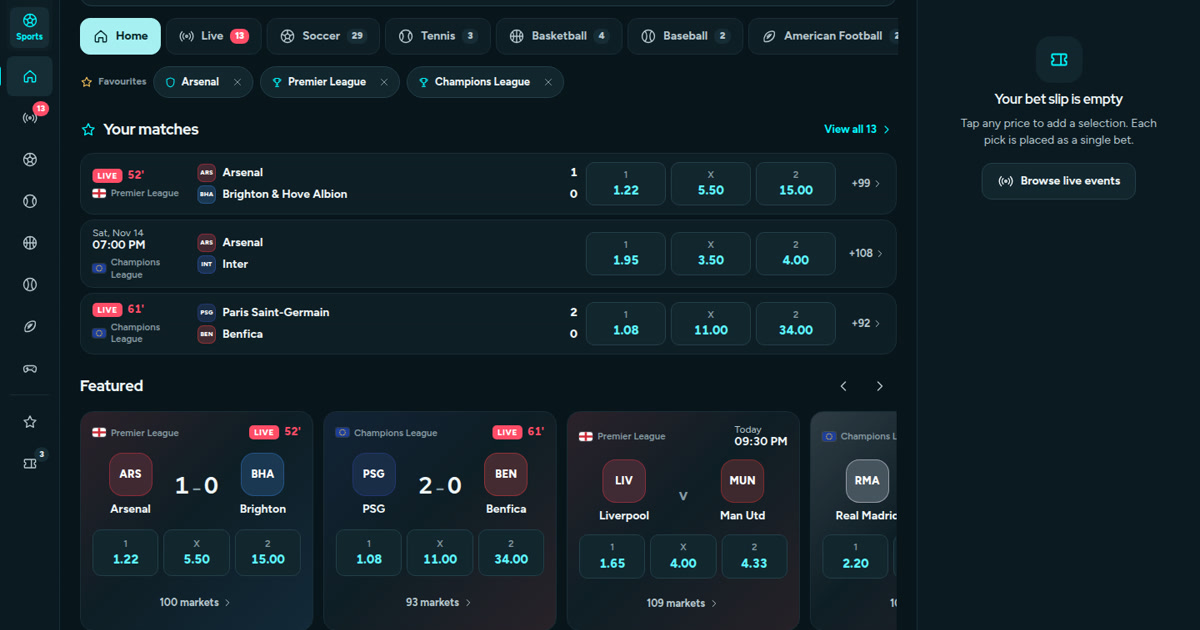
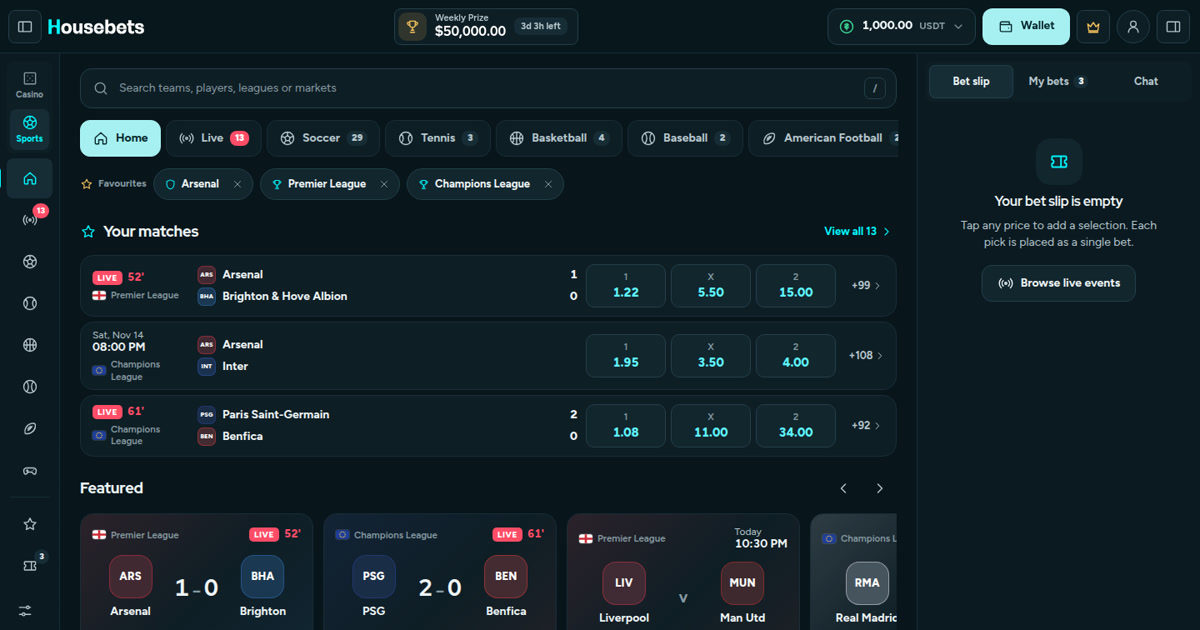
Recapture og.jpg from the top bar and hide league countries through 380px
Capture the 1440×756 desktop home from y=0 so the Housebets logo, Weekly
Prize and VIP crown are in frame, then scale to 1200×630. Hide the league
country and separator through 380px so Champions League stays fully visible
at 375px, and check league-header overflow at 375×812.

diff --git a/src/style.css b/src/style.css
@@ -873,7 +873,7 @@ main { grid-column: 2; grid-row: 2; min-width: 0; padding: 18px 24px 40px; }
   .brand-logo:not(.is-mark) { display: none; }
   .brand-logo.is-mark { display: inline-flex; }
 }
-@media (max-width: 360px) {
+@media (max-width: 380px) {
   .league-head .league-country,
   .league-head .sep { display: none; }
 }
